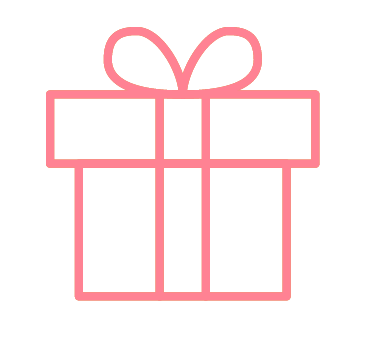
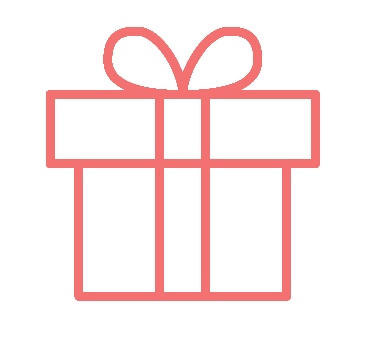
modal

Changed region(s): [[0.1183, 0.0592, 0.8575, 0.8876]]

diff --git a/index.html b/index.html
@@ -24,7 +24,7 @@
 
   <main id="1">
     <!-- <h2>Cada vez Falta menos...</h2> -->
-    <p class="back">Faltan...</p>
+    <p class="back">FALTAN :</p>
     <div class="countdown">
       <div>
         <p id="days">09</p>
@@ -119,14 +119,11 @@
         <button class="regalos__boton" id="openModal">Ver datos</button>
         <div id="modal" class="modal-container">
           <div class="modal-content">
-            <h4>DATOS BANCARIOS</h4>
+            <h4>Colectivo Abitab 136989</h4>
             <p class="datos">
-              Nombre del Titular: Amalia Dalljo<br>
-              CBU: 0070398530004005389901<br>
-              CTA: 4005389-9 398-0<br>
-              Alias: CORONA.METRO.SODA<br>
-              <br>
-              Banco Galicia</p>
+              Nombre del Colectivo: <br>Cumple Quince Lorenzo<br>
+             
+            
             <div id="close" class="close">Cerrar</div>
           </div>
         </div>
@@ -181,7 +178,7 @@
       </section> -->
 
     <footer class="footer">
-      <p class="footer__texto">Todos los derechos reservados <br> JM Diseño y Desarrollo Web</p>
+    <a href="https://www.behance.net/juanmedinagrafico" target="_blank">  Todos los derechos reservados -  JM Diseño y Desarrollo Web</a>
     </footer>
     <!-- JS Carrousel----------------------------------------------------------- -->
     <script src="./js/script.js"></script>

diff --git a/css/style.css b/css/style.css
@@ -270,15 +270,16 @@ h3 {
 .regalos__boton {
   margin-top: 30px;
   padding: 10px 20px;
-  border: #ffc5f0 1px solid;
+  border: rgb(243, 113, 113) 1px solid;
   border-radius: 5px;
-  box-shadow: 2px 2px 2px #ffc5f0;
+  box-shadow: 2px 2px 2px rgb(243, 113, 113);
   transition: 0.5s;
 }
 
 .regalos__boton:hover {
-  background-color:  #ffc5f0;
+  background-color:  rgb(243, 113, 113);
   box-shadow: none;
+  color: #ffffff;
 }
 
 /* ::::::::::::::::::::: MODAL  :::::::::::::: */
@@ -465,6 +466,11 @@ form textarea:focus {
   padding: 10px;
   background-color: #000;
   color: #fff;
+}
+
+.footer a{
+  color: #fff;
+  text-decoration: none;
 }
 
 

diff --git a/js/script.js b/js/script.js
@@ -6,7 +6,7 @@
       min = document.getElementById("min"),
       sec = document.getElementById("sec");
 
-      const evento = new Date("JANUARY 12, 2024 20:30:00") .getTime();
+      const evento = new Date("JANUARY 12, 2024 21:30:00") .getTime();
 
     setInterval(()=> {
         
